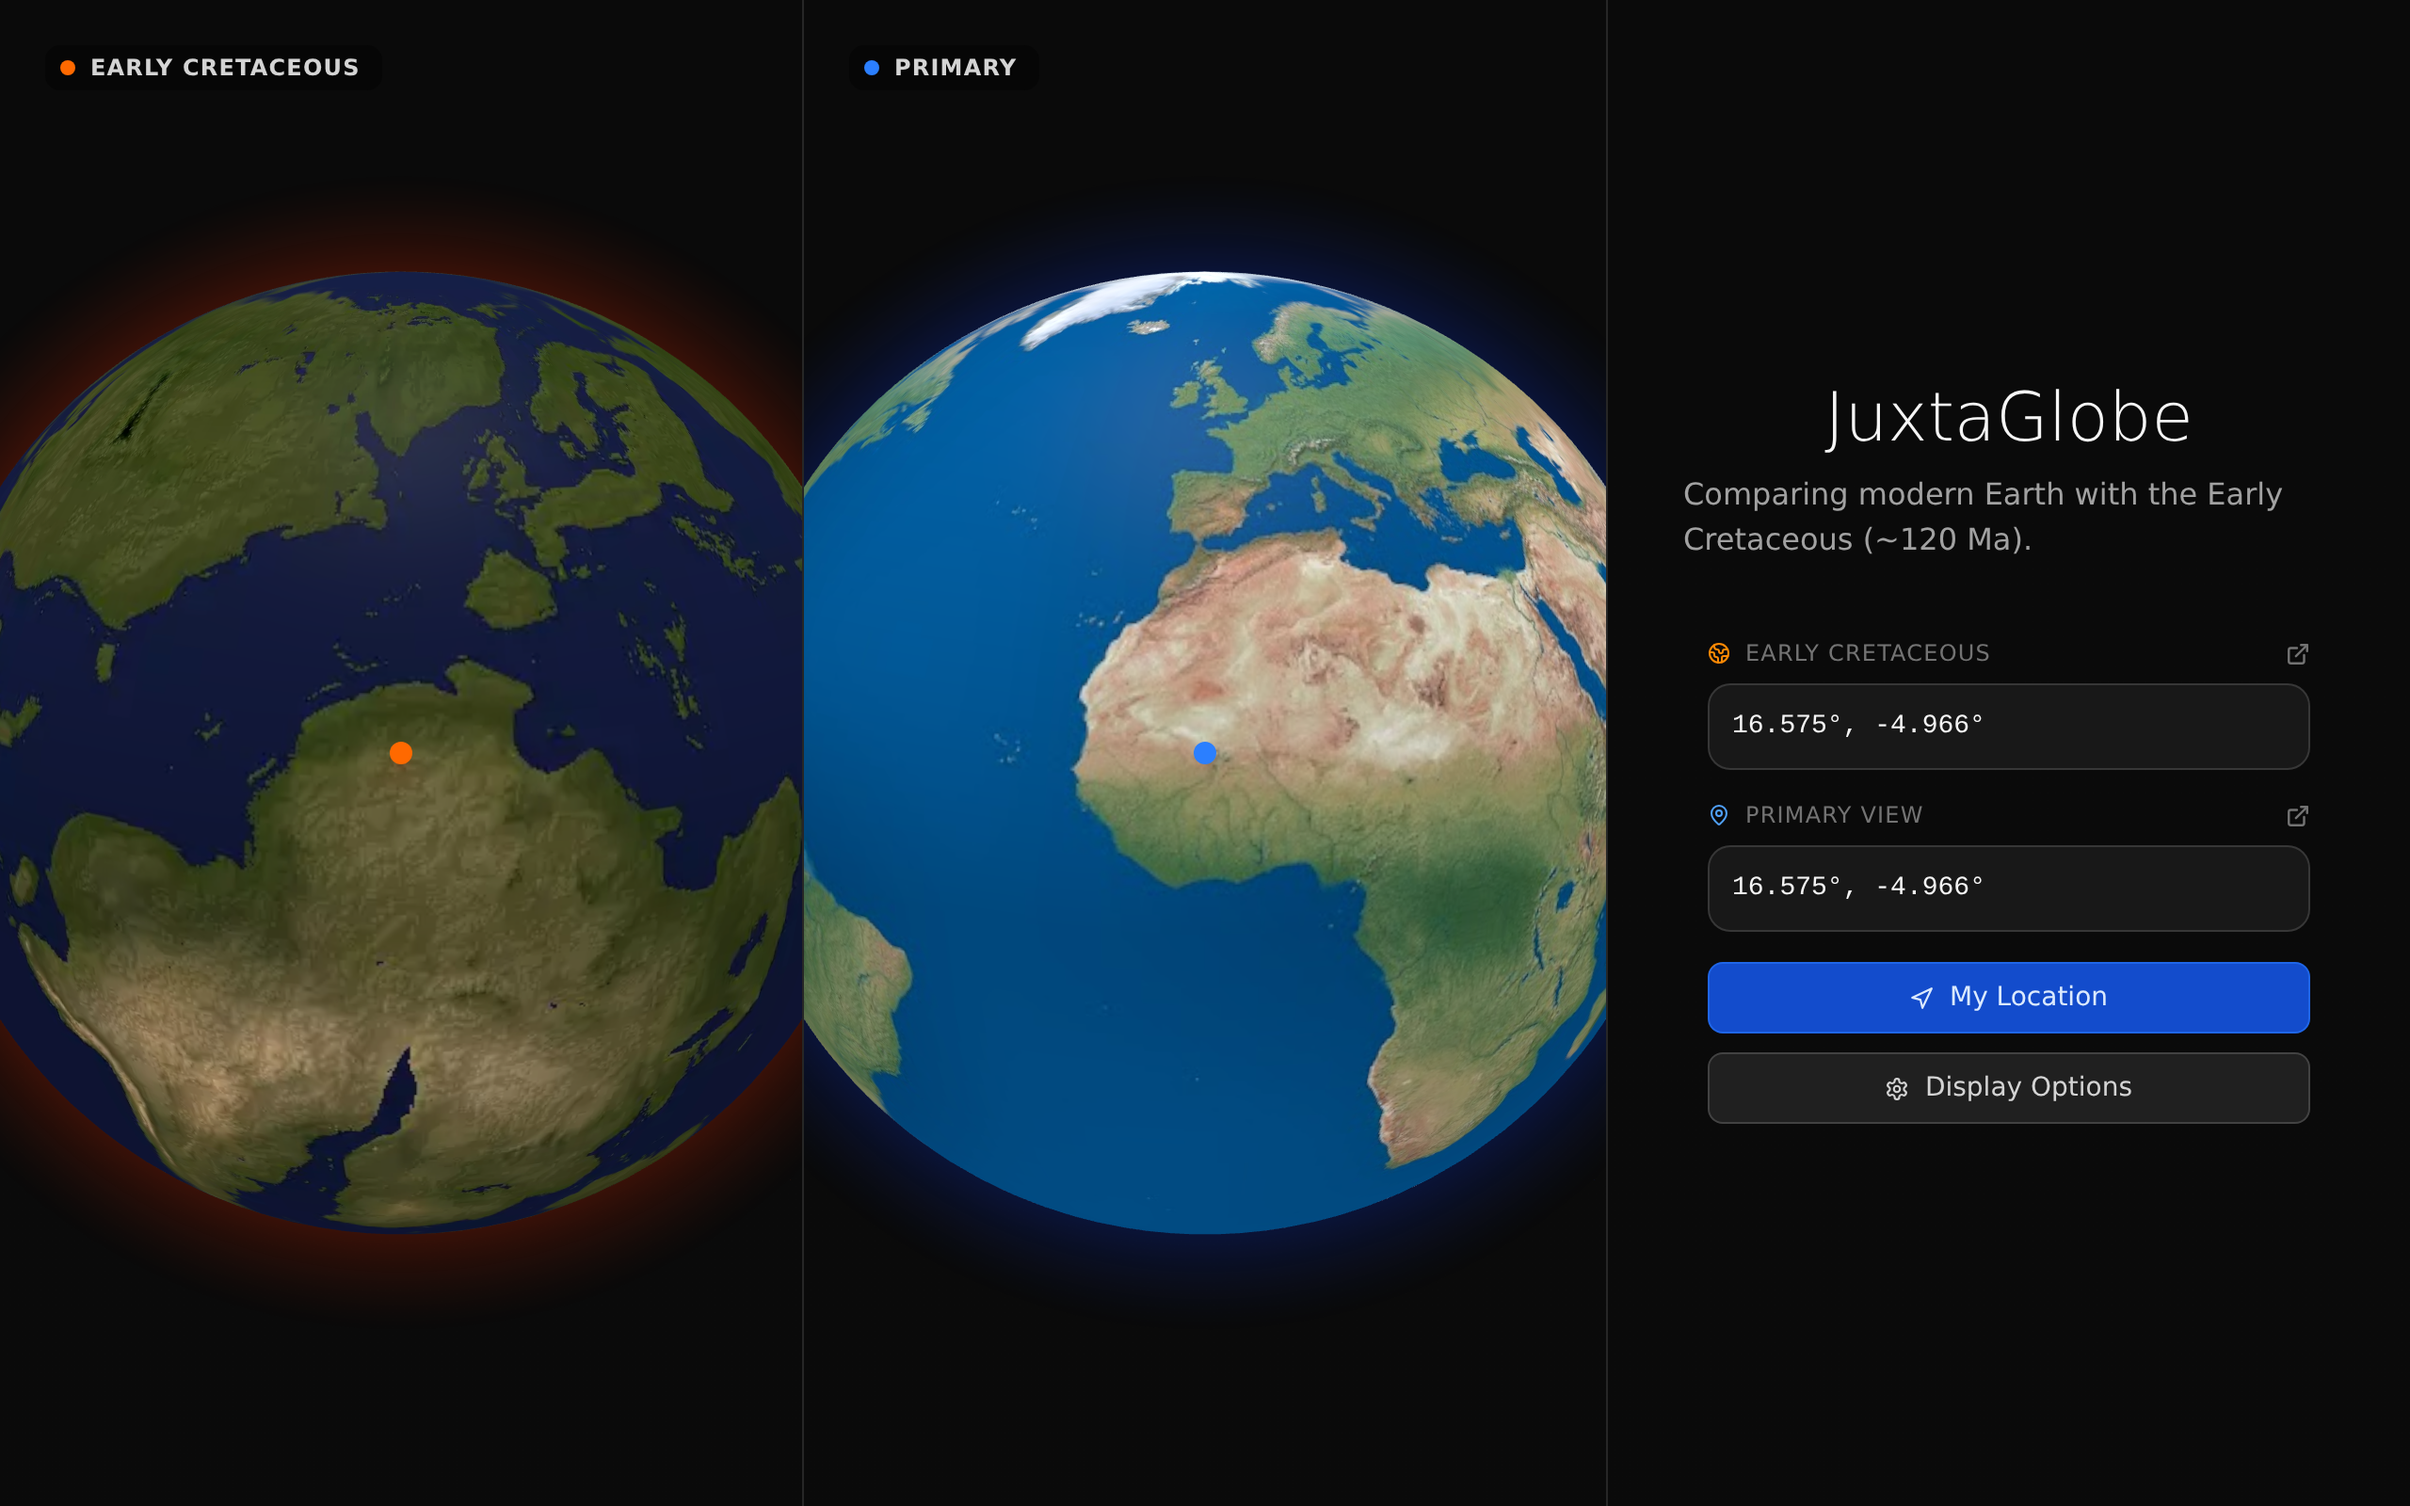
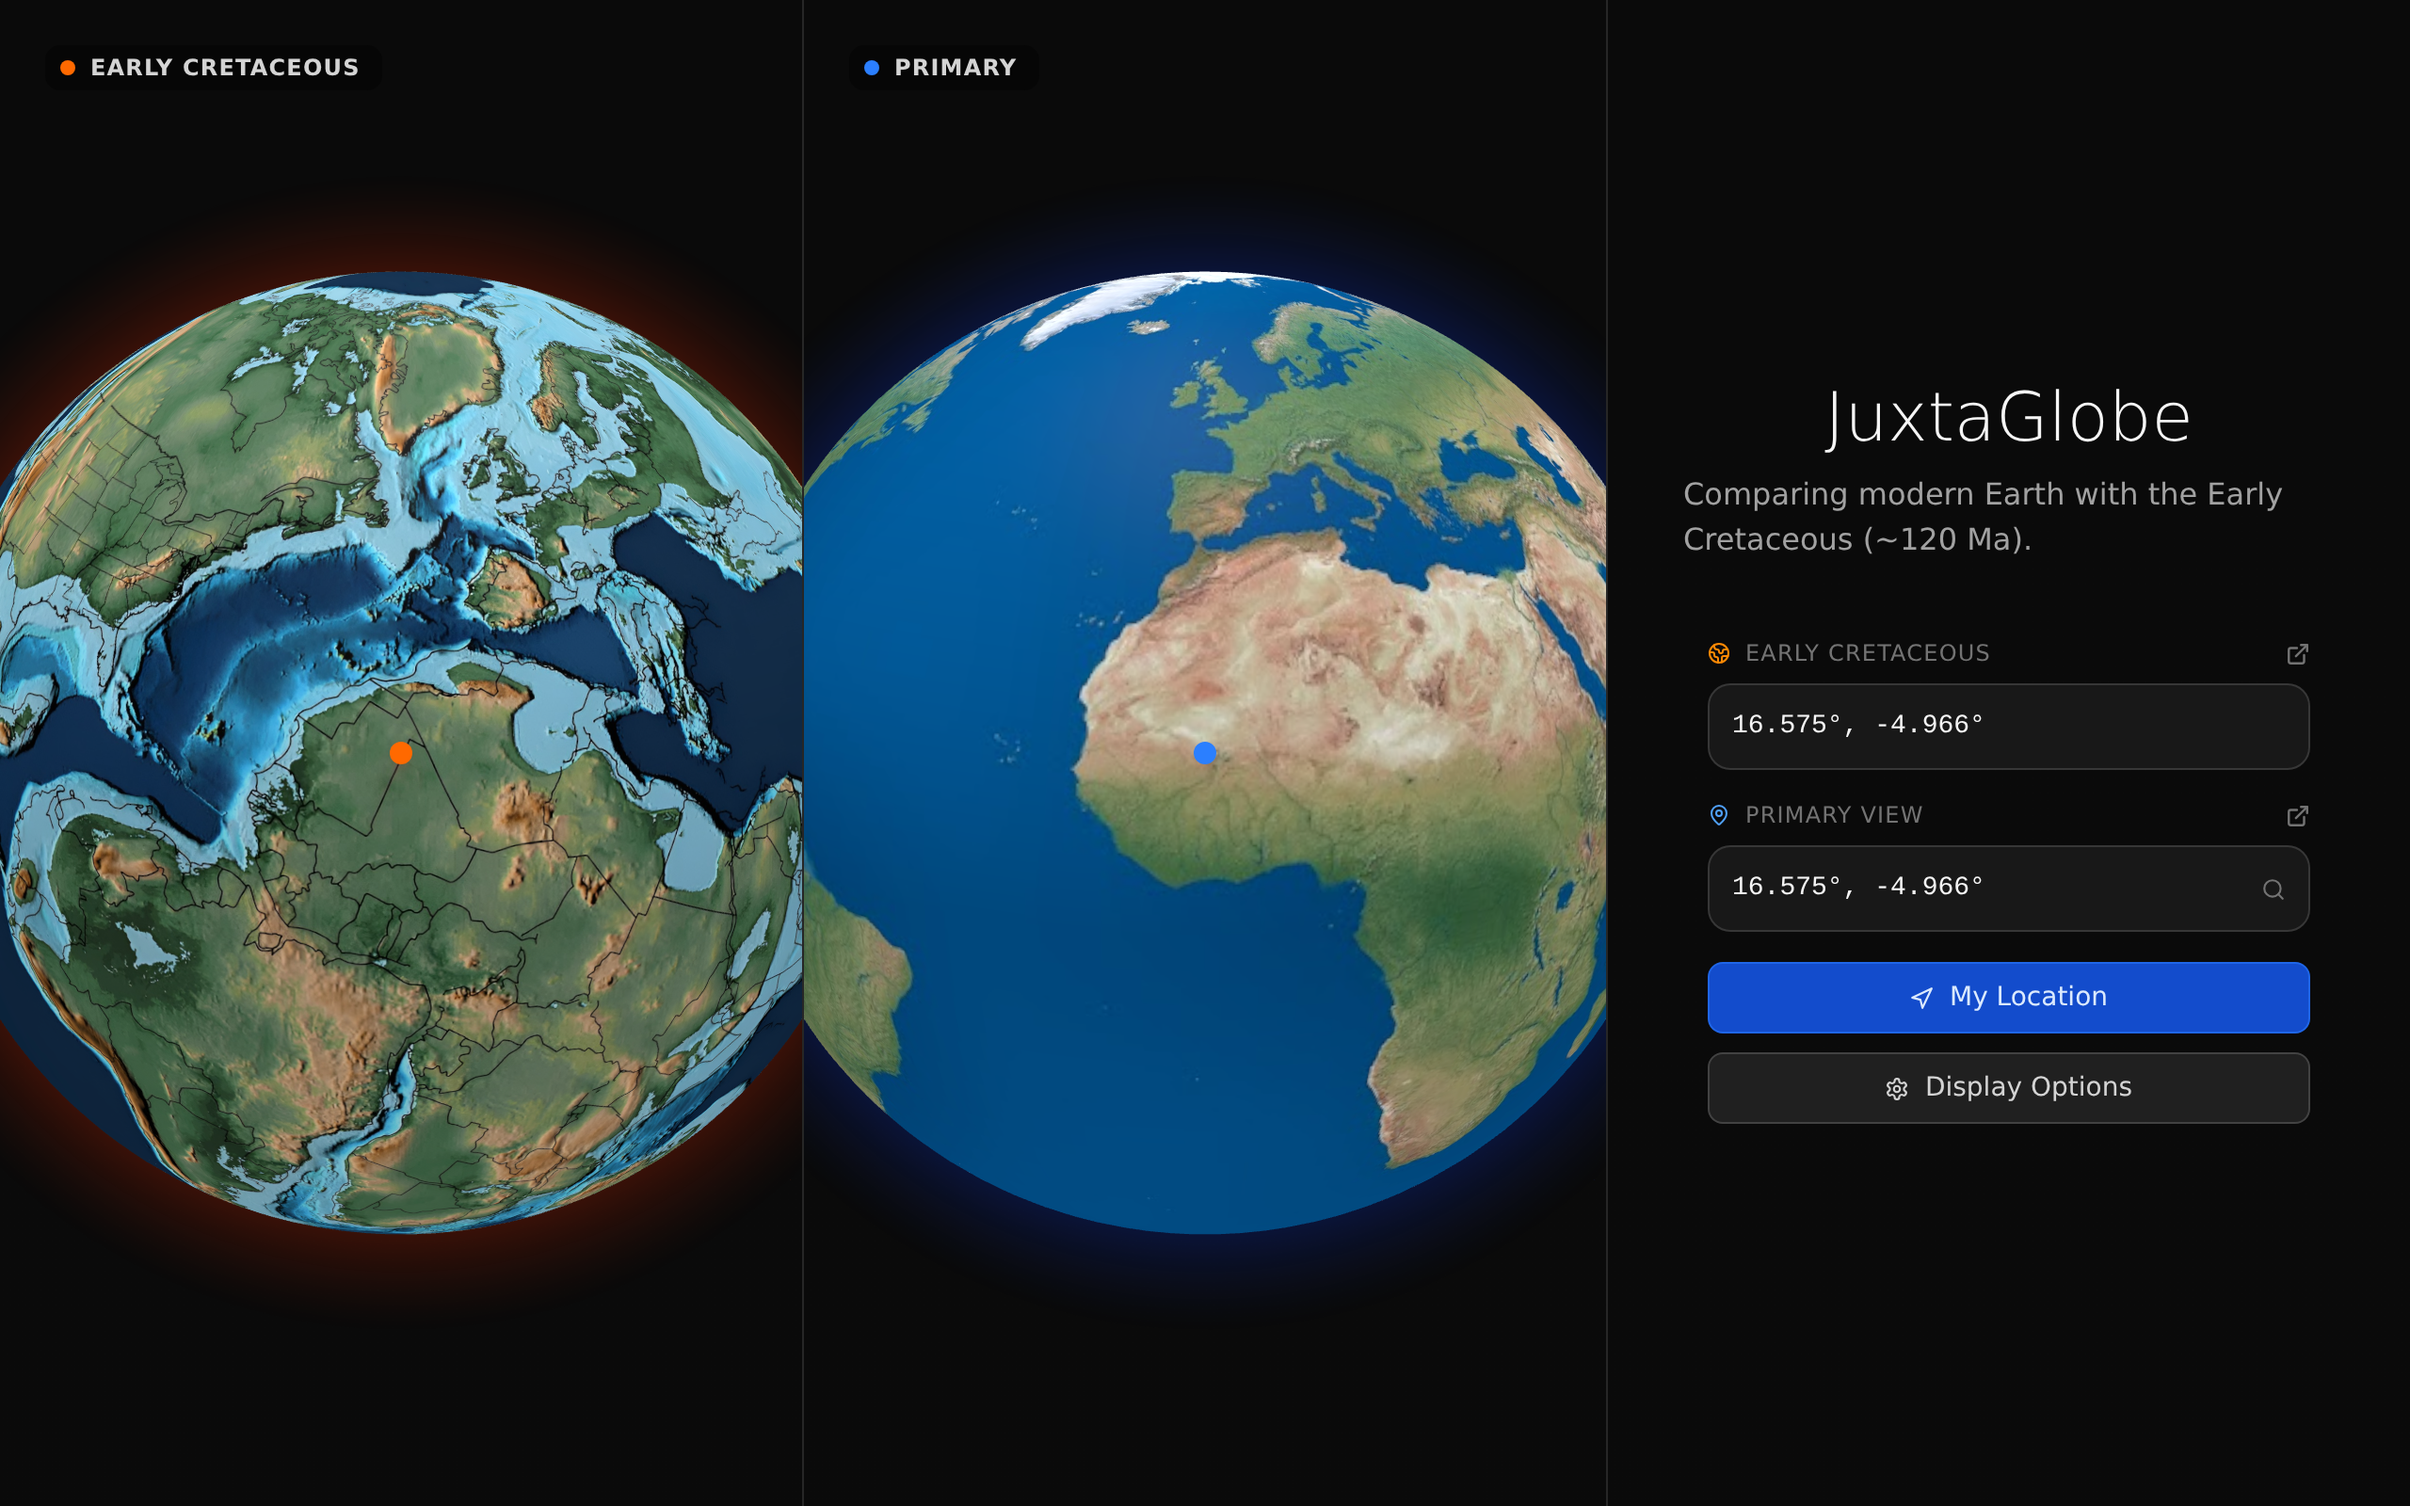
juxtaglobe thumbs update

Changed region(s): [[0.0, 0.1875, 0.3438, 0.8438], [0.5312, 0.1875, 0.5625, 0.2188], [0.5, 0.1562, 0.5312, 0.1875]]

diff --git a/src/components/Home.tsx b/src/components/Home.tsx
@@ -87,6 +87,7 @@ const projects = [
     description: "A dual-globe map for exploring Earth's antipodes.",
     gallery: [
       "/images/juxtaglobe2.png",
+      "/images/juxtaglobe5.png",
       "/images/juxtaglobe3.png",
       "/images/juxtaglobe4.png",
     ]

diff --git a/src/components/JuxtaGlobe.tsx b/src/components/JuxtaGlobe.tsx
@@ -10,6 +10,7 @@ import PageHeader from "./PageHeader"
 const imagePaths = [
   "/images/juxtaglobe1.png",
   "/images/juxtaglobe2.png",
+  "/images/juxtaglobe5.png",
   "/images/juxtaglobe3.png",
   "/images/juxtaglobe4.png",
 ]
